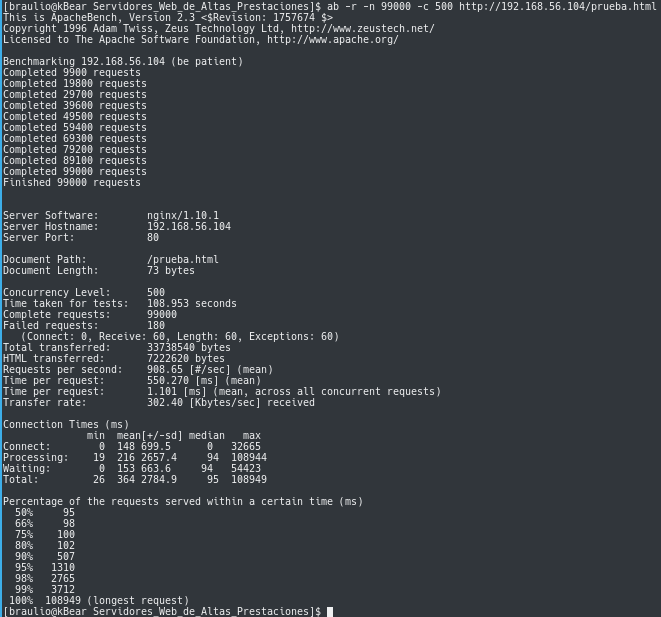
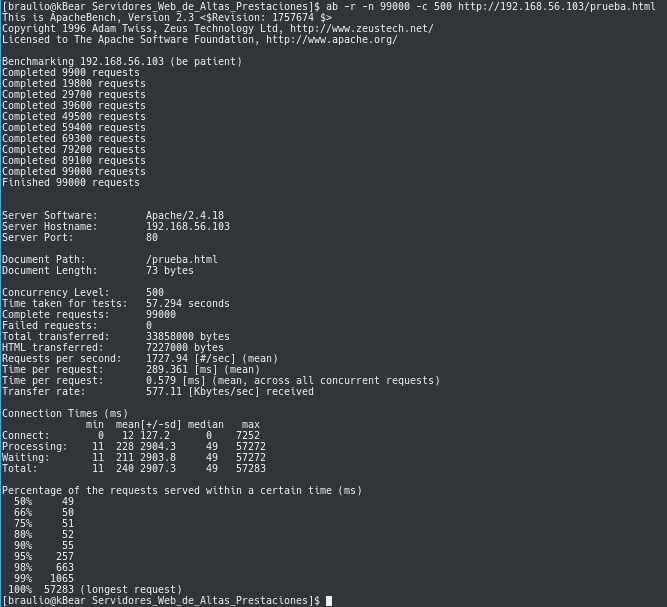
subidos los ab en mismas condiciones

Changed region(s): [[0.0, 0.0, 0.9985, 1.0]]

diff --git a/practicas/practica3/README.md b/practicas/practica3/README.md
@@ -191,19 +191,19 @@ $ ab -n 99000 -c 500 http://192.168.56.104/prueba.html
 ```
 ![ab_nginx](ab_nginx.png)
 
-En este caso, hemos realizado 99000 peticiones al servidor, donde ha tardado casi 2 minutos en hacer el test completo. En este caso, han fallado 180 peticiones.
+En este caso, hemos realizado 99000 peticiones al servidor, donde ha tardado 57.294 segundos en hacer el test completo, sin peticiones fallidas.
 
-Por segundo, es capaz de atender 908.65 peticiones porsegundo, tardando unos 550ms, a una velocidad de transferencia de 302.40 Kbytes/sec.
+Por segundo, es capaz de atender 1727.94 peticiones porsegundo, tardando unos 289.361 ms, a una velocidad de transferencia de 577.11 Kbytes/sec.
 
-La petición más lenta ha tardado 108949 ms, mientras qeu las más rápidas han tardado 95ms.
+La petición más lenta ha tardado 57283 ms, mientras qeu las más rápidas han tardado 95ms.
 
 ### haproxy
-Para poner a prueba nuestro servidor con `haproxy` como balanceador de carga hemos hecho 100000 peticiones haciendo las peticiones de 500 en 500
+Para poner a prueba nuestro servidor con `haproxy` como balanceador de carga hemos hecho 99000 peticiones haciendo las peticiones de 500 en 500.
 
 ```bash
-$ ab -n 100000 -c 500 http://192.168.0.207/prueba.html
+$ ab -n 99000 -c 500 http://192.168.0.207/prueba.html
 ```
 
 ![ab_haproxy](ab_haproxy.png)
 
-En hacer las 100000 peticiones (de 500 en 500) se ha tardado un minuto. Todas las peticiones se han completado correctamente, lo que quiere decir que nuestro servidor ha sido capaz de responder a todas en un tiempo medianamente razonable. Por segundo se han respondido unas 1500 peticiones y cada una ha sido respondida, en media, en unos 340 ms. La petición más lenta ha tardado 16030 ms en ser respondida mientras que las más rápidas (un 50% de las peticiones), 243 ms.
+En hacer las 99000 peticiones (de 500 en 500) se ha tardado un minuto. Todas las peticiones se han completado correctamente, lo que quiere decir que nuestro servidor ha sido capaz de responder a todas en un tiempo medianamente razonable. Por segundo se han respondido 1776.81 peticiones y cada una ha sido respondida, en media, en 281.403 ms. La petición más lenta ha tardado 32987 ms en ser respondida mientras que las más rápidas (un 50% de las peticiones), 201 ms.
